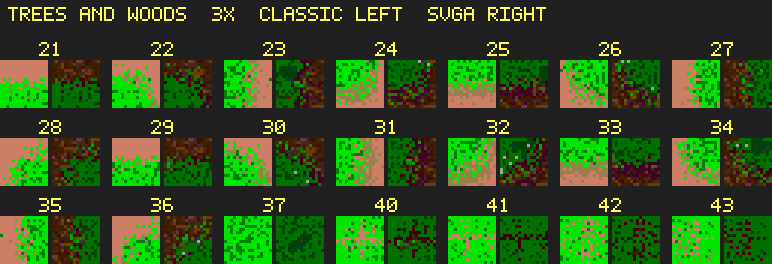
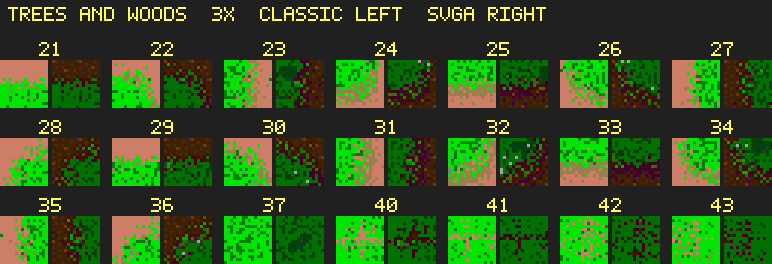
Calm the Warcraft dirt to a base, a spaced neighbour, and rare accents.
The open field is 79% (65, 32, 0), 17% (65, 40, 32), and 4% isolated (113, 56, 0). The grass edge is a solid 1px rim of (65, 16, 0).

diff --git a/art/svga/make_atlas.py b/art/svga/make_atlas.py
@@ -49,47 +49,59 @@ SRC_TAN = (204, 127, 102)
 SRC_DTAN = (153, 127, 76)
 SRC_ORANGE = (255, 127, 0)
 
-# Warcraft II path. The screenshot is a doubled 320x200 frame and the path
-# is eight colours. None of them is a mode 13h entry, so each name below is
-# the nearest standard colour. (73, 32, 16) and (65, 28, 16) tie between
-# (65, 32, 0) and (65, 32, 32); the warm entry is the one used.
-# Shares are the upper path (996 px) plus the clean stretch past the
-# catapults (185 px), scaled to 1000.
-DIRT_A = (65, 32, 0)       # 39.4%
-DIRT_B = (65, 40, 32)      # 27.1%
-DIRT_C = (113, 56, 0)      # 16.9%
-DIRT_D = (65, 16, 0)       #  9.9%
-DIRT_E = (113, 56, 56)     #  6.3%
-DIRT_F = (113, 69, 56)     #  0.4%
-# No mode 13h brown is darker than (65, 16, 0). The shadow steps drop green.
-DIRT_SOFT = (65, 0, 16)
-DIRT_CONTACT = (65, 0, 0)
-DIRT_BODY = (
-    (DIRT_A, 394),
-    (DIRT_B, 271),
-    (DIRT_C, 169),
-    (DIRT_D, 99),
-    (DIRT_E, 63),
-    (DIRT_F, 4),
-)
-# Outermost path pixels, where dirt meets grass. Same colours, shifted
-# toward (65, 32, 0). The counts are the 299 edge pixels.
-DIRT_EDGE = (
-    (DIRT_A, 148),
-    (DIRT_B, 85),
-    (DIRT_C, 38),
-    (DIRT_D, 16),
-    (DIRT_E, 12),
-)
+# Warcraft browns, calmed. The path's eight colours are not mode 13h entries.
+# The open field keeps three of the nearest: a dominant base, one close
+# neighbour, and a rare lighter accent. (65, 16, 0) is the darkest of the
+# dropped colours and is reserved for the rim and the soft shadow.
+# (113, 56, 56) and (113, 69, 56) stay out, so the light specks do not return.
+DIRT_BASE = (65, 32, 0)      # 760/961 = 79.1%
+DIRT_NEAR = (65, 40, 32)     # 163/961 = 17.0%
+DIRT_ACCENT = (113, 56, 0)   #  38/961 =  4.0%, isolated
+DIRT_RIM = (65, 16, 0)       # clean 1px edge, and the soft shadow
+DIRT_CONTACT = (65, 0, 16)   # strength-2 shadow, one step darker than the rim
+# The last two entries are the shadow steps: strength 1, then strength 2.
 DIRT_RAMP = (
-    DIRT_A,
-    DIRT_B,
-    DIRT_C,
-    DIRT_D,
-    DIRT_E,
-    DIRT_F,
-    DIRT_SOFT,
+    DIRT_BASE,
+    DIRT_NEAR,
+    DIRT_ACCENT,
+    DIRT_RIM,
     DIRT_CONTACT,
+)
+# 31x31 world-locked mask. 31 does not divide 16, so a tile edge does not
+# restart it. C is the accent (at least two pixels from the next accent).
+# B is the neighbour (no two touch, even on the diagonal). '.' is the base.
+_DIRT_MASK = (
+    "CB.B....BC....B...B..B..B.B.B.B",
+    "......B....B....B..............",
+    ".B.B.....B...CB...B.CB....CB.B.",
+    "....CB.B....B...B......B.B.....",
+    "B.........B...B...B..B.....B.BC",
+    "..B..B.B....B...B......B.B.....",
+    "B........B....BC...C.B.....B.B.",
+    "..B.C.B.C..B.....B.....C...C...",
+    "C............B......B.B..B...B.",
+    "..B.B.B..B.B....B..........B...",
+    "B...........C.....C...B.B....B.",
+    "..B.C...B......B....B.....C....",
+    "B.....B...B..B...B.....B....B..",
+    "..B.....B......B...B.....B.....",
+    "B....B.....B.B........C....B.B.",
+    "...B...C.......C..B.....B......",
+    ".........B..B.......B.....B...C",
+    ".B.B.B.B......B..B....B.B...B..",
+    ".........B.C.......C.....C.....",
+    "B..C...B.......B.B...B.....B...",
+    ".....B......B..........B.....B.",
+    ".......B..B.....B.B.B.....B....",
+    ".B..B.........C.......C.....B.B",
+    ".......C...B....B..B....B.B....",
+    "B.B..B...B...B.......B.......C.",
+    ".......B..........C....B.C.....",
+    "...C.B...B.C...B.....B.....B.B.",
+    "B.B....B.....B...B.B....B......",
+    "....B....B.....B.....B......C..",
+    "..B....B....B....B.B...C..B...B",
+    ".....C..........C..............",
 )
 GRASS_RAMP = (
     (0, 170, 0),
@@ -334,42 +346,43 @@ def _assert_hash_aperiodic() -> None:
         raise SystemExit(
             f"water clusters still tile at 16px (match rate {clustered / cluster_total:.3f})"
         )
-    # The path's own neighbour-match rate is 0.249. An independent mix lands
-    # near sum(p^2) ≈ 0.27, and a 16px tile would land near 1.
-    same = 0
-    total = 0
-    neigh = 0
-    neigh_total = 0
+    # A 16px stamp would repeat every non-base pixel at +16. The mask period
+    # is 31, so those pixels mostly miss.
+    marked = 0
+    repeated = 0
     counts: dict[tuple[int, int, int], int] = {}
-    span = 96
+    span = 93  # three periods of the 31px mask
+    accent_touch = 0
+    near_touch = 0
     for y in range(span):
         for x in range(span):
             here = _dirt_colour(x, y, False)
             counts[here] = counts.get(here, 0) + 1
-            same += here == _dirt_colour(x + 16, y, False)
-            same += here == _dirt_colour(x, y + 16, False)
-            total += 2
-            if x + 1 < span:
-                neigh += here == _dirt_colour(x + 1, y, False)
-                neigh_total += 1
-    if same / total > 0.45:
-        raise SystemExit(f"dirt still tiles at 16px (match rate {same / total:.3f})")
-    rate = neigh / neigh_total
-    if not 0.18 <= rate <= 0.38:
-        raise SystemExit(f"dirt neighbour match {rate:.3f} is outside the path's range")
-    expected = {
-        DIRT_A: 0.394,
-        DIRT_B: 0.271,
-        DIRT_C: 0.169,
-        DIRT_D: 0.099,
-        DIRT_E: 0.063,
-        DIRT_F: 0.004,
-    }
+            if here != DIRT_BASE:
+                marked += 1
+                repeated += here == _dirt_colour(x + 16, y, False)
+            if here == DIRT_ACCENT:
+                for dx, dy in _ORTHO + ((1, 1), (1, -1), (-1, 1), (-1, -1)):
+                    if _dirt_colour(x + dx, y + dy, False) == DIRT_ACCENT:
+                        accent_touch += 1
+            elif here == DIRT_NEAR:
+                for dx, dy in _ORTHO:
+                    if _dirt_colour(x + dx, y + dy, False) == DIRT_NEAR:
+                        near_touch += 1
+    if marked == 0 or repeated / marked > 0.5:
+        raise SystemExit(f"dirt texture still tiles at 16px ({repeated} of {marked})")
+    if accent_touch:
+        raise SystemExit(f"light accents touch ({accent_touch})")
+    if near_touch:
+        raise SystemExit(f"neighbour pixels clump ({near_touch})")
     pixels = span * span
+    expected = {DIRT_BASE: 0.791, DIRT_NEAR: 0.170, DIRT_ACCENT: 0.040}
     for rgb, share in expected.items():
         got = counts.get(rgb, 0) / pixels
-        if abs(got - share) > 0.02:
+        if abs(got - share) > 0.015:
             raise SystemExit(f"dirt share {rgb} is {got:.3f}, wanted {share:.3f}")
+    if counts.get(DIRT_RIM) or counts.get(DIRT_CONTACT):
+        raise SystemExit("rim or shadow colour leaked into the open field")
 
 
 def _in(x: int, y: int, w: int, h: int) -> bool:
@@ -511,26 +524,16 @@ def _touches_water(src, x: int, y: int, w: int, h: int) -> bool:
     return False
 
 
-def _weighted_rgb(
-    x: int, y: int, salt: int, table: tuple[tuple[tuple[int, int, int], int], ...]
-) -> tuple[int, int, int]:
-    total = 0
-    for _rgb, count in table:
-        total += count
-    h = _hash(x + salt * 13, y + salt * 29) % total
-    acc = 0
-    for rgb, count in table:
-        acc += count
-        if h < acc:
-            return rgb
-    return table[-1][0]
-
-
 def _dirt_colour(x: int, y: int, edge: bool) -> tuple[int, int, int]:
-    """Path mix in world pixels. The edge table is the grass-side share."""
+    """Calm field in world pixels. The edge is one solid darker pixel."""
     if edge:
-        return _weighted_rgb(x, y, 4, DIRT_EDGE)
-    return _weighted_rgb(x, y, 0, DIRT_BODY)
+        return DIRT_RIM
+    mark = _DIRT_MASK[y % 31][x % 31]
+    if mark == "C":
+        return DIRT_ACCENT
+    if mark == "B":
+        return DIRT_NEAR
+    return DIRT_BASE
 
 
 def _touches_ground(src, x: int, y: int, w: int, h: int, colours: frozenset) -> bool:
@@ -1001,7 +1004,7 @@ def _warcraft_compare() -> Image.Image:
     """The sampled path beside a same-size patch of the new dirt, at 3x.
 
     The patch is painted in world coordinates. A grass margin on each side
-    shows the darker edge mix; the middle is the field mix.
+    shows the solid 1px rim; the middle is the calm field.
     """
     ref = ROOT / "svga-refs" / "warcraft.png"
     if not ref.is_file():
@@ -1062,11 +1065,11 @@ def main() -> int:
         "  69  (56, 20, 12)    (65, 16, 0)          185   15.52",
         "  48  (48, 16, 12)    (65, 16, 0)          185   20.81",
         "   5  (117, 65, 28)   (113, 69, 56)        137   28.57",
-        "Merged field: (65, 32, 0) 39.4%, (65, 40, 32) 27.1%, (113, 56, 0) 16.9%,",
-        "(65, 16, 0) 9.9%, (113, 56, 56) 6.3%, (113, 69, 56) 0.4%.",
-        "Edge against grass, 299 px, shifts to (65, 32, 0) 49.5%, (65, 40, 32) 28.4%,",
-        "(113, 56, 0) 12.7%, (65, 16, 0) 5.4%, (113, 56, 56) 4.0%.",
-        "No standard brown is darker than (65, 16, 0). Shadows are (65, 0, 16) and (65, 0, 0).",
+        "Calm field: (65, 32, 0) 79.1%, (65, 40, 32) 17.0%, (113, 56, 0) 4.0%.",
+        "Accents are single pixels. Neighbour pixels do not touch.",
+        "(65, 16, 0), (113, 56, 56) and (113, 69, 56) are out of the open field.",
+        "The 1px rim where dirt meets grass, pavement, or water is (65, 16, 0).",
+        "Soft shadow is that same rim. Contact shadow is (65, 0, 16).",
         "Soil rim (65, 0, 48), soil contact (65, 0, 32). Grass and water unchanged.",
         "",
     ]
@@ -1121,14 +1124,18 @@ def main() -> int:
 
     dirt = paint(crop_tile(atlas, 0), [["ground"]])
     dirt_counts = _histogram(dirt)
-    body_n = sum(dirt_counts.get(rgb, 0) for rgb, _count in DIRT_BODY)
-    if body_n < 200 or dirt_counts.get(DIRT_A, 0) < dirt_counts.get(DIRT_B, 0):
-        lines.append(f"FAIL dirt tile is not the path mix: {dirt_counts}")
+    if dirt_counts.get(DIRT_BASE, 0) < dirt_counts.get(DIRT_NEAR, 0):
+        lines.append(f"FAIL dirt tile is not the calm base: {dirt_counts}")
+        failed = True
+    if dirt_counts.get(DIRT_RIM, 0) or dirt_counts.get((113, 56, 56), 0) or dirt_counts.get((113, 69, 56), 0):
+        lines.append(f"FAIL open dirt tile picked up an edge or dropped colour: {dirt_counts}")
         failed = True
     forbidden = {
         (85, 255, 85),
         (113, 113, 56),
         (113, 97, 56),
+        (113, 56, 56),
+        (113, 69, 56),
         (113, 28, 0),
         (170, 85, 0),
         (255, 127, 0),
